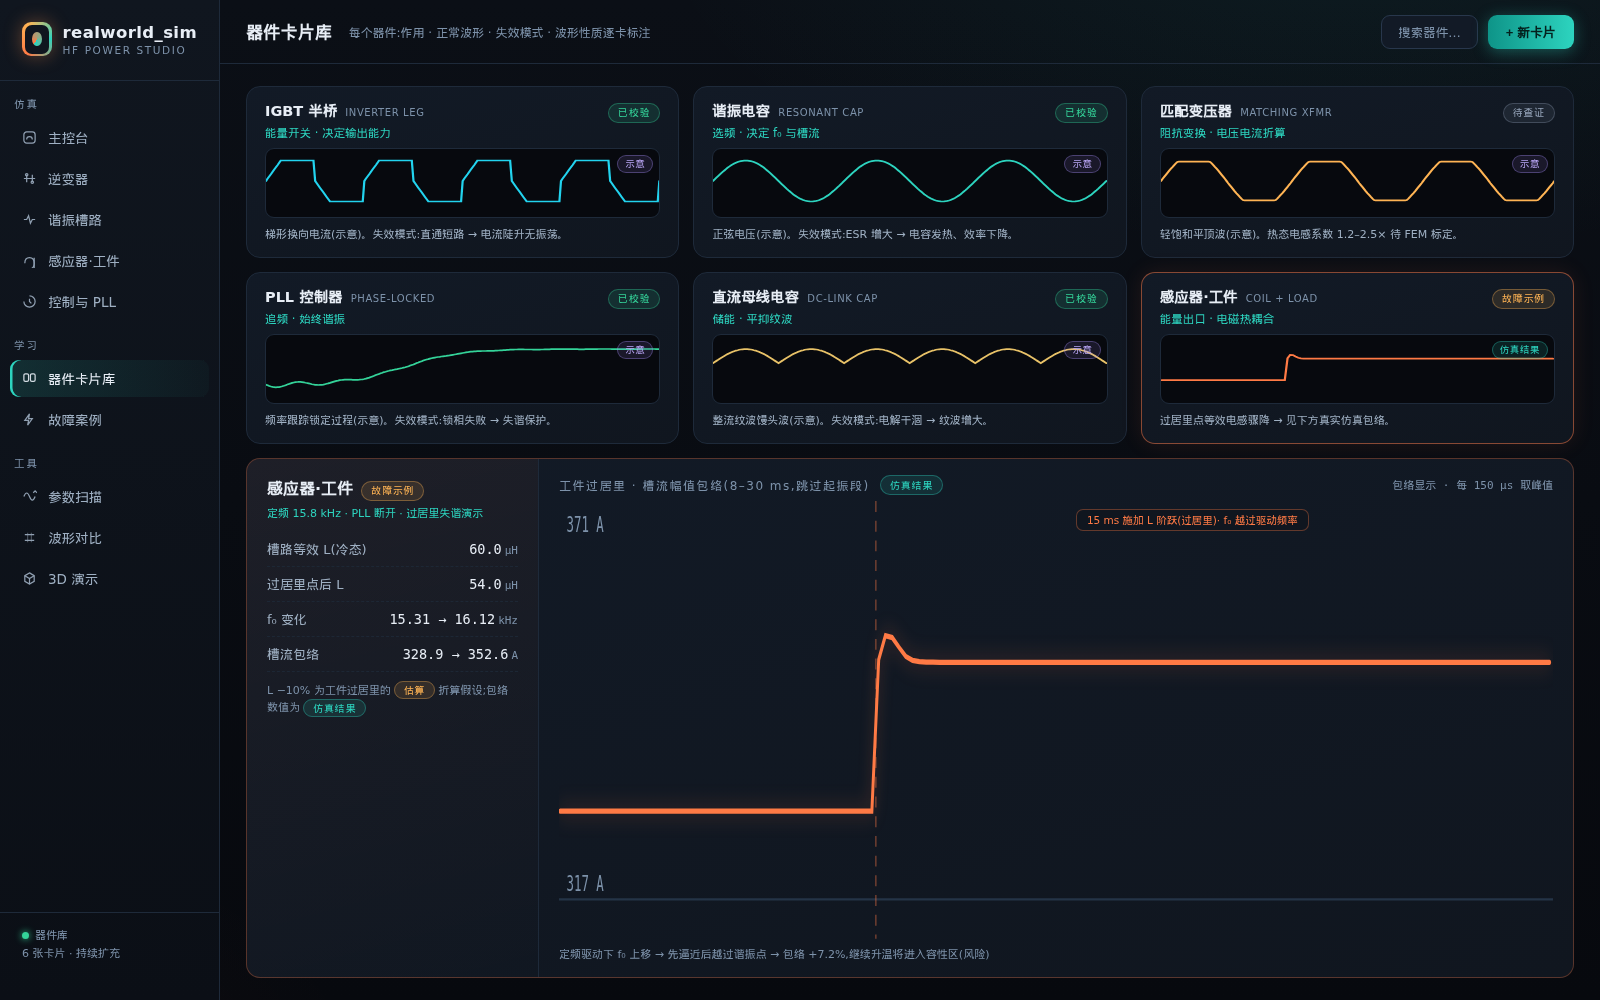
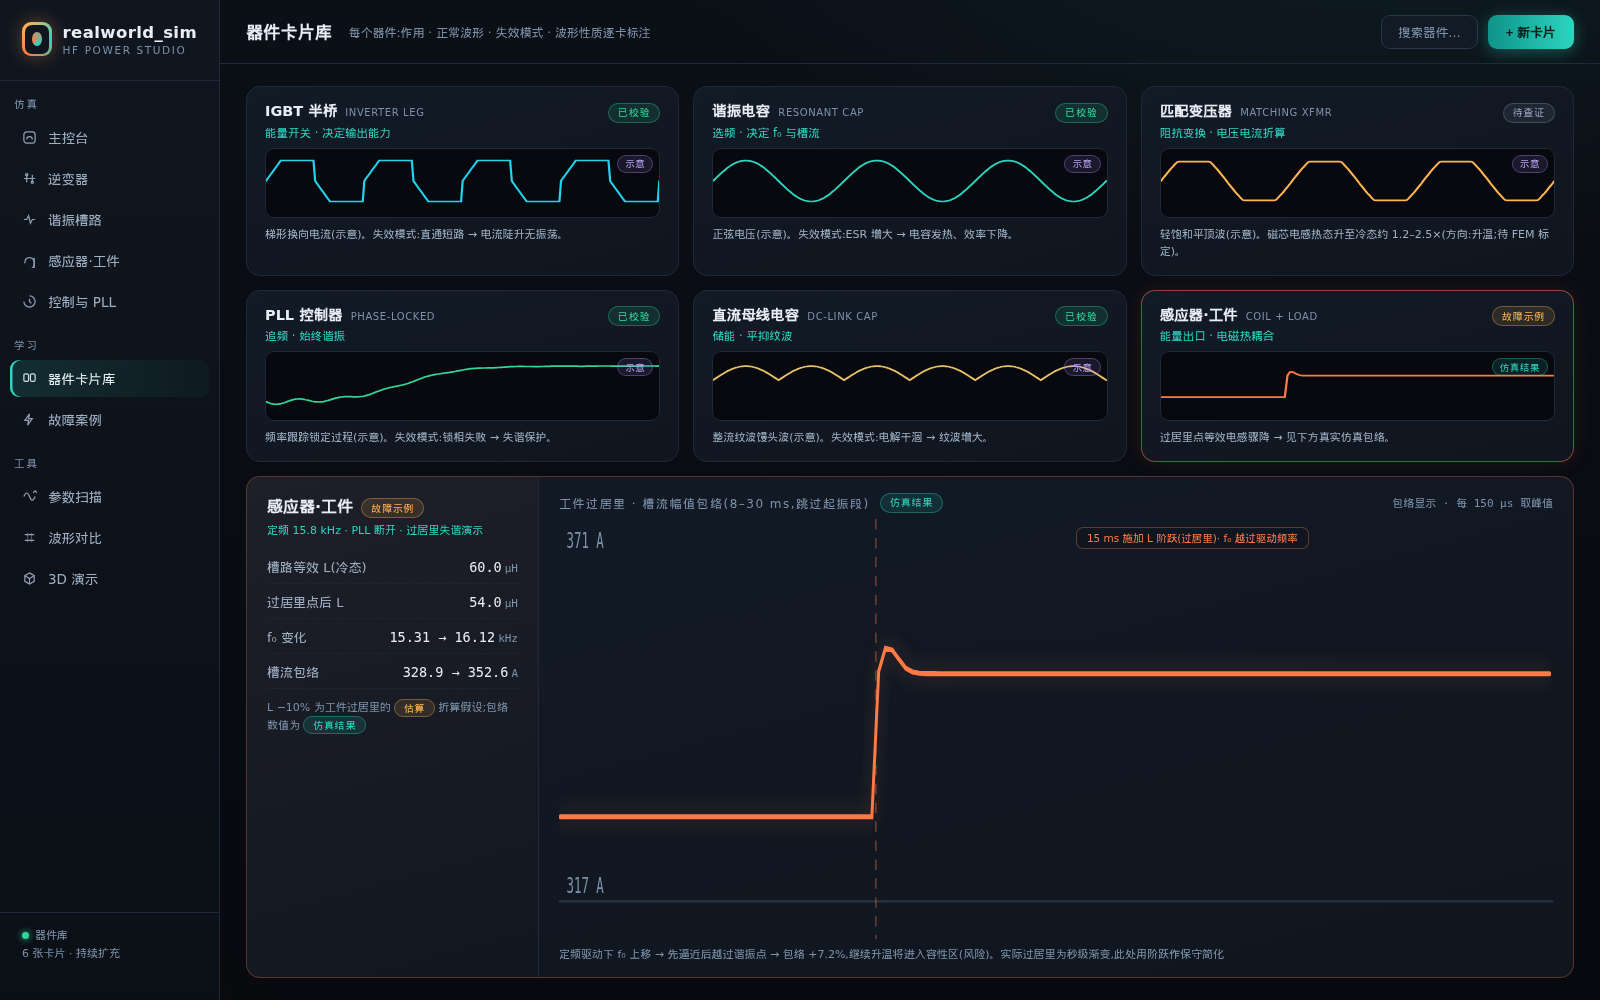
design: v1.2 补三处(运行态停止按钮换色;变压器卡热态方向注明;居里阶跃简化加注)

diff --git a/design/v1/p3_cards.html b/design/v1/p3_cards.html
@@ -36,7 +36,7 @@
       </div>
       <div style="font-size:11.5px;color:var(--cy);margin-bottom:8px">阻抗变换 · 电压电流折算</div>
       <div style="background:var(--bg0);border:1px solid var(--line);border-radius:9px;overflow:hidden;position:relative"><svg viewBox="0 0 300 64" width="100%" height="64" preserveAspectRatio="none"><path d="M0.0,32.0 L1.2,29.9 L2.5,27.8 L3.8,25.7 L5.0,23.7 L6.2,21.7 L7.5,19.8 L8.8,18.0 L10.0,16.2 L11.2,14.5 L12.5,13.0 L13.7,12.6 L15.0,12.6 L16.2,12.6 L17.5,12.6 L18.8,12.6 L20.0,12.6 L21.2,12.6 L22.5,12.6 L23.8,12.6 L25.0,12.6 L26.2,12.6 L27.5,12.6 L28.8,12.6 L30.0,12.6 L31.2,12.6 L32.5,12.6 L33.8,12.6 L35.0,12.6 L36.2,12.6 L37.5,13.0 L38.8,14.5 L40.0,16.2 L41.2,18.0 L42.5,19.8 L43.8,21.7 L45.0,23.7 L46.2,25.7 L47.5,27.8 L48.8,29.9 L50.0,32.0 L51.2,34.1 L52.5,36.2 L53.8,38.3 L55.0,40.3 L56.2,42.3 L57.5,44.2 L58.8,46.0 L60.0,47.8 L61.2,49.5 L62.5,51.0 L63.8,51.4 L65.0,51.4 L66.2,51.4 L67.5,51.4 L68.8,51.4 L70.0,51.4 L71.2,51.4 L72.5,51.4 L73.8,51.4 L75.0,51.4 L76.2,51.4 L77.5,51.4 L78.8,51.4 L80.0,51.4 L81.2,51.4 L82.5,51.4 L83.8,51.4 L85.0,51.4 L86.2,51.4 L87.5,51.0 L88.8,49.5 L90.0,47.8 L91.2,46.0 L92.5,44.2 L93.8,42.3 L95.0,40.3 L96.3,38.3 L97.5,36.2 L98.8,34.1 L100.0,32.0 L101.2,29.9 L102.5,27.8 L103.8,25.7 L105.0,23.7 L106.2,21.7 L107.5,19.8 L108.8,18.0 L110.0,16.2 L111.2,14.5 L112.5,13.0 L113.8,12.6 L115.0,12.6 L116.2,12.6 L117.5,12.6 L118.8,12.6 L120.0,12.6 L121.2,12.6 L122.5,12.6 L123.8,12.6 L125.0,12.6 L126.2,12.6 L127.5,12.6 L128.8,12.6 L130.0,12.6 L131.2,12.6 L132.5,12.6 L133.8,12.6 L135.0,12.6 L136.2,12.6 L137.5,13.0 L138.8,14.5 L140.0,16.2 L141.2,18.0 L142.5,19.8 L143.8,21.7 L145.0,23.7 L146.2,25.7 L147.5,27.8 L148.8,29.9 L150.0,32.0 L151.2,34.1 L152.5,36.2 L153.8,38.3 L155.0,40.3 L156.2,42.3 L157.5,44.2 L158.8,46.0 L160.0,47.8 L161.2,49.5 L162.5,51.0 L163.7,51.4 L165.0,51.4 L166.2,51.4 L167.5,51.4 L168.8,51.4 L170.0,51.4 L171.2,51.4 L172.5,51.4 L173.8,51.4 L175.0,51.4 L176.2,51.4 L177.5,51.4 L178.8,51.4 L180.0,51.4 L181.2,51.4 L182.5,51.4 L183.8,51.4 L185.0,51.4 L186.2,51.4 L187.5,51.0 L188.8,49.5 L190.0,47.8 L191.2,46.0 L192.5,44.2 L193.8,42.3 L195.0,40.3 L196.2,38.3 L197.5,36.2 L198.8,34.1 L200.0,32.0 L201.2,29.9 L202.5,27.8 L203.8,25.7 L205.0,23.7 L206.2,21.7 L207.5,19.8 L208.8,18.0 L210.0,16.2 L211.3,14.5 L212.5,13.0 L213.8,12.6 L215.0,12.6 L216.2,12.6 L217.5,12.6 L218.8,12.6 L220.0,12.6 L221.2,12.6 L222.5,12.6 L223.8,12.6 L225.0,12.6 L226.2,12.6 L227.5,12.6 L228.8,12.6 L230.0,12.6 L231.2,12.6 L232.5,12.6 L233.8,12.6 L235.0,12.6 L236.2,12.6 L237.5,13.0 L238.7,14.5 L240.0,16.2 L241.2,18.0 L242.5,19.8 L243.8,21.7 L245.0,23.7 L246.2,25.7 L247.5,27.8 L248.8,29.9 L250.0,32.0 L251.2,34.1 L252.5,36.2 L253.8,38.3 L255.0,40.3 L256.2,42.3 L257.5,44.2 L258.8,46.0 L260.0,47.8 L261.2,49.5 L262.5,51.0 L263.8,51.4 L265.0,51.4 L266.2,51.4 L267.5,51.4 L268.8,51.4 L270.0,51.4 L271.2,51.4 L272.5,51.4 L273.8,51.4 L275.0,51.4 L276.2,51.4 L277.5,51.4 L278.8,51.4 L280.0,51.4 L281.2,51.4 L282.5,51.4 L283.8,51.4 L285.0,51.4 L286.2,51.4 L287.5,51.0 L288.8,49.5 L290.0,47.8 L291.2,46.0 L292.5,44.2 L293.8,42.3 L295.0,40.3 L296.2,38.3 L297.5,36.2 L298.8,34.1 L300.0,32.0" fill="none" stroke="#ffb454" stroke-width="1.7" stroke-linecap="round"/></svg><span class="badge ill wavtag">示意</span></div>
-      <div style="font-size:11px;color:var(--tx1);line-height:1.6;margin-top:8px">轻饱和平顶波(示意)。热态电感系数 1.2–2.5× 待 FEM 标定。</div>
+      <div style="font-size:11px;color:var(--tx1);line-height:1.6;margin-top:8px">轻饱和平顶波(示意)。磁芯电感热态升至冷态约 1.2–2.5×(方向:升温;待 FEM 标定)。</div>
     </div>
       <div class="card" style="padding:14px 18px">
       <div style="display:flex;align-items:baseline;gap:8px;margin-bottom:2px">
@@ -90,7 +90,7 @@
 <text x="6" y="178" fill="#7d92aa" font-size="10" font-family="monospace">317 A</text></svg>          <div style="position:absolute;left:52%;top:8px;font-size:10.5px;color:var(--em);background:var(--bg2);border:1px solid rgba(255,122,69,.35);padding:3px 10px;border-radius:7px">15 ms 施加 L 阶跃(过居里)· f₀ 越过驱动频率</div>
         </div>
         <div style="display:flex;gap:16px;margin-top:8px;font-size:11px;color:var(--tx2);align-items:center">
-          <span>定频驱动下 f₀ 上移 → 先逼近后越过谐振点 → 包络 +7.2%,继续升温将进入容性区(风险)</span>
+          <span>定频驱动下 f₀ 上移 → 先逼近后越过谐振点 → 包络 +7.2%,继续升温将进入容性区(风险)。实际过居里为秒级渐变,此处用阶跃作保守简化</span>
         </div>
       </div>
     </div>

diff --git a/design/v1/p1_dashboard.html b/design/v1/p1_dashboard.html
@@ -5,7 +5,7 @@
   <div class="topbar">
     <h1>主控台</h1><span class="crumb">设计示例(50 kW 级,非 HFQ6 额定功率)· 串联谐振槽 · 本页数据为仿真结果</span>
     <div class="simstat"><span class="pulse"></span>仿真运行中 · t = 6.000 ms</div>
-    <button class="btn">暂停</button><button class="btn pri">运行</button>
+    <button class="btn">暂停</button><button class="btn" style="background:linear-gradient(90deg,#c2410c,#f87171);border:none;color:#2a0a0a;font-weight:600;box-shadow:0 3px 14px rgba(248,113,113,.3)">停止</button>
   </div>
   <div class="content">
     <div style="width:340px;display:flex;flex-direction:column;gap:16px;flex-shrink:0">
